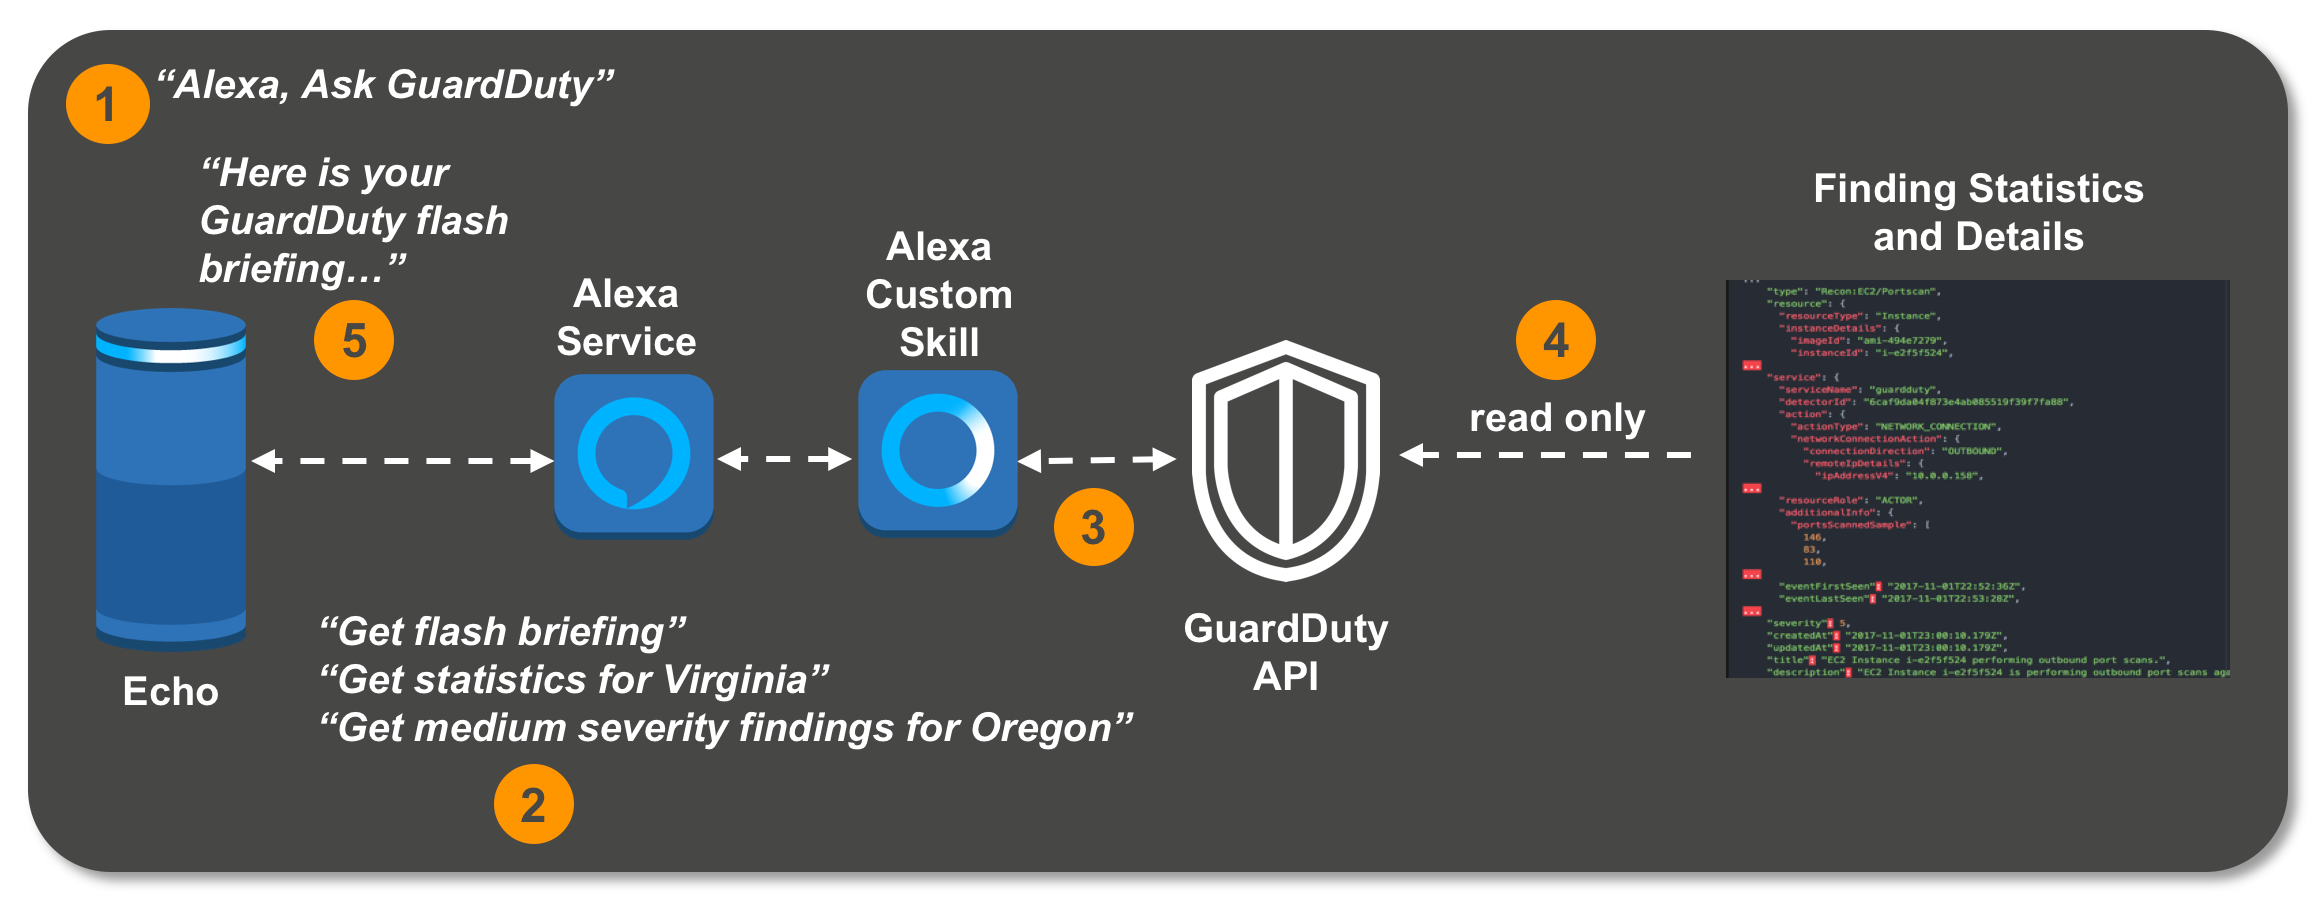
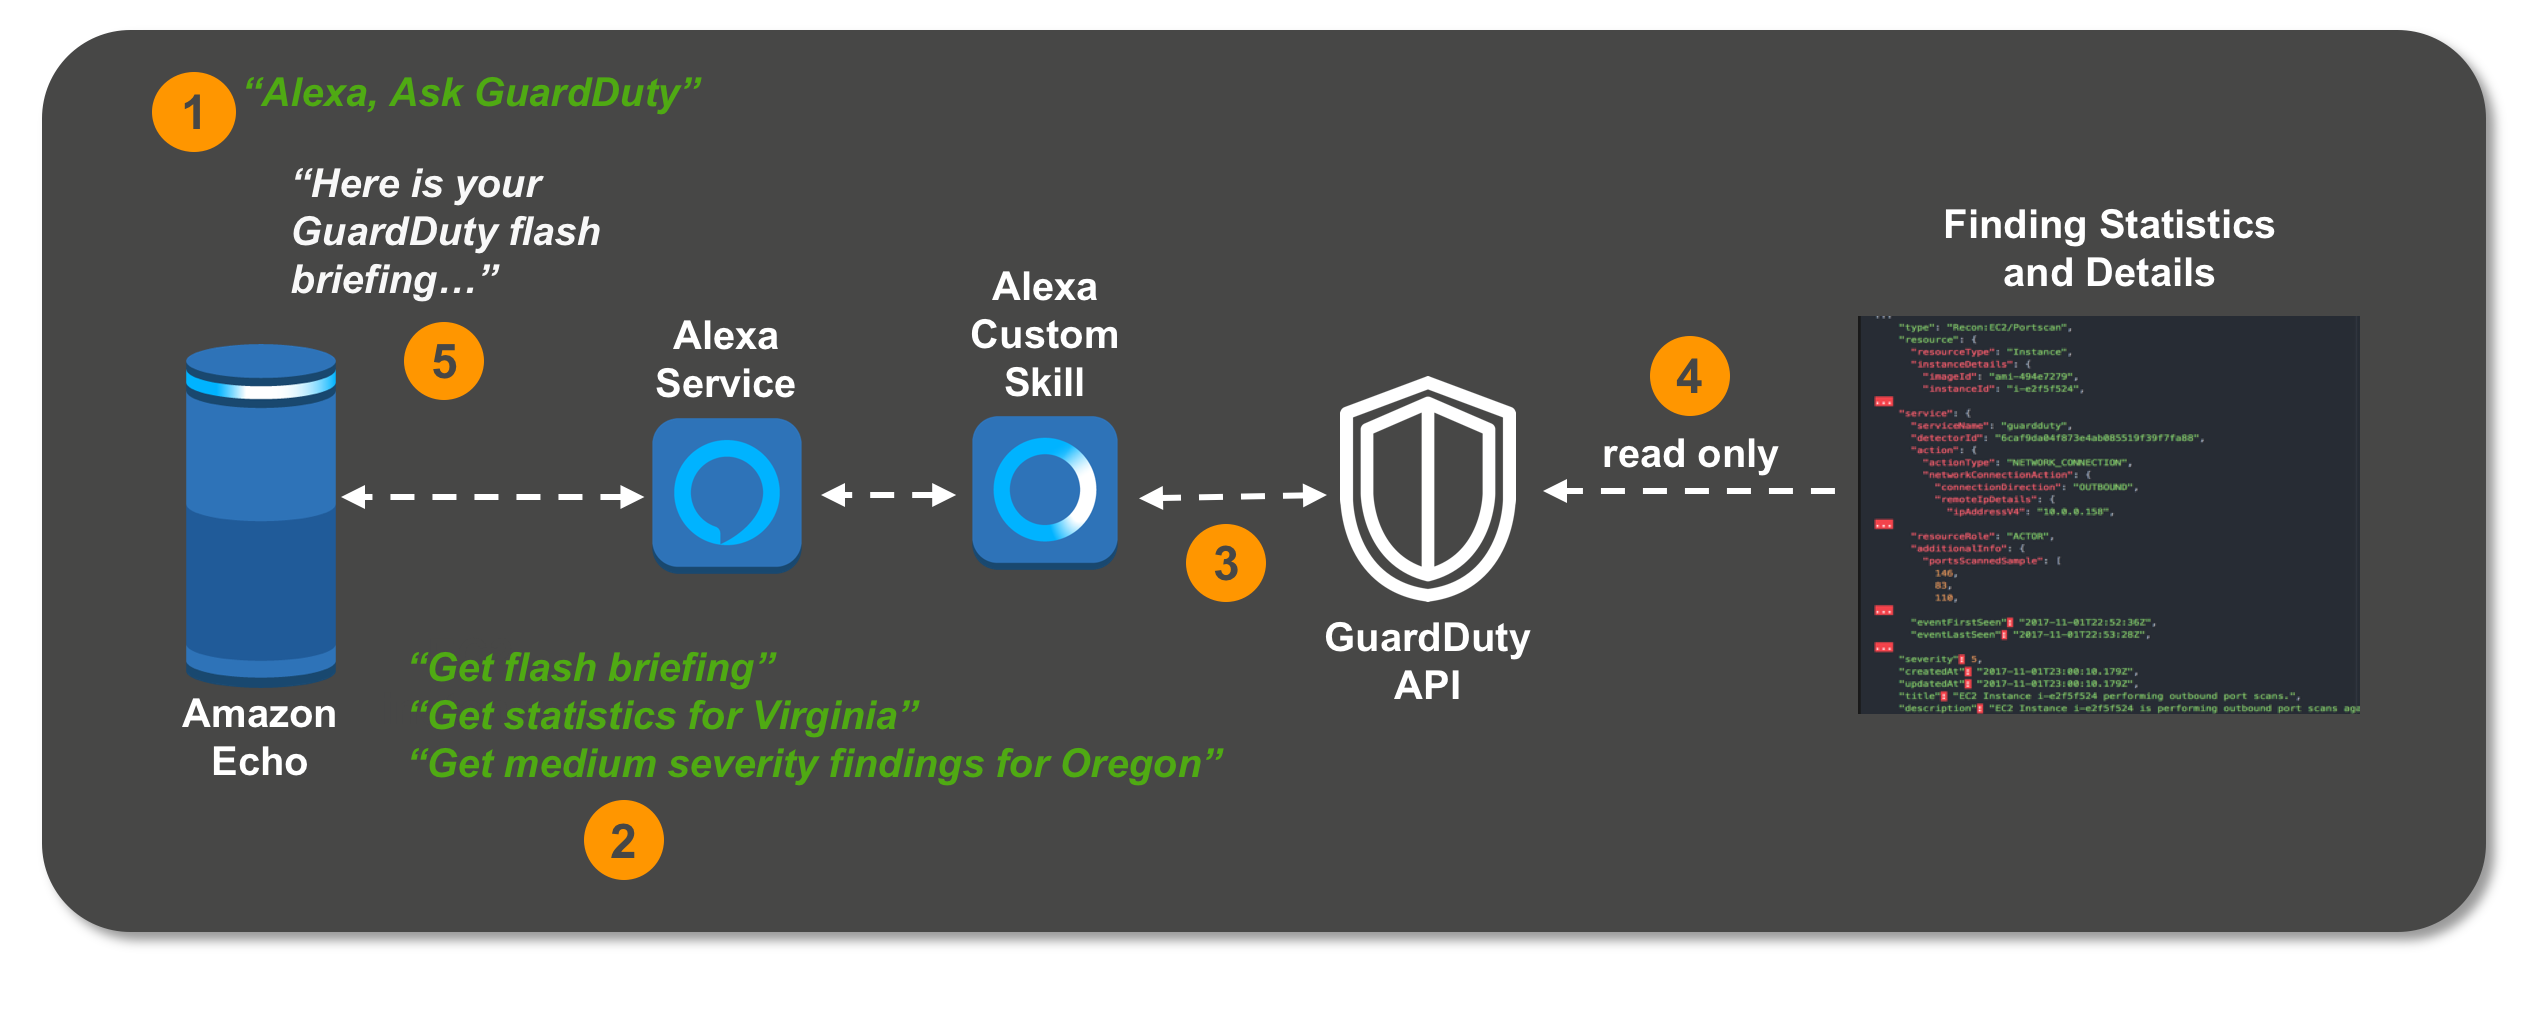
Update README and diagram

Changed region(s): [[0.0, 0.0611, 0.9922, 0.9782]]

diff --git a/README.md b/README.md
@@ -58,10 +58,10 @@ Comma separated list of region codes with NO spaces to include in flash briefing
 ## Deployment into Personal Dev Account
 
 1. Deploy CloudFormation Template.
-2.  Go to [Amazon Dev Console](https://developer.amazon.com/alexa/console)
-3. Paste Skill JSON into Skill Builder Code Editor in **Interaction Model**. Save / Build
-4. Get Outputs: AlexaAskGDSkillArn from stack and paste into Lambda endpoint field in skill **Configuration**
-5. Do not complete the final 2 skill configuration sections; Publishing Information and Privacy and Compliance.
+2. Go to [Amazon Dev Console](https://developer.amazon.com/alexa/console)
+3. Paste Skill JSON into Skill Builder JSON Editor in **Build**. Save / Build
+4. Get Outputs: AlexaAskGDSkillArn from stack and paste into Lambda endpoint field in skill **Endpoint**. Save
+5. Since you are not publishing this skill, you do not need to complete the **Launch** section of the configuration.
 6. Test with Alexa-enabled device.
 
 ***[Alexa for Business Deployment](https://aws.amazon.com/alexaforbusiness/getting-started/)***
